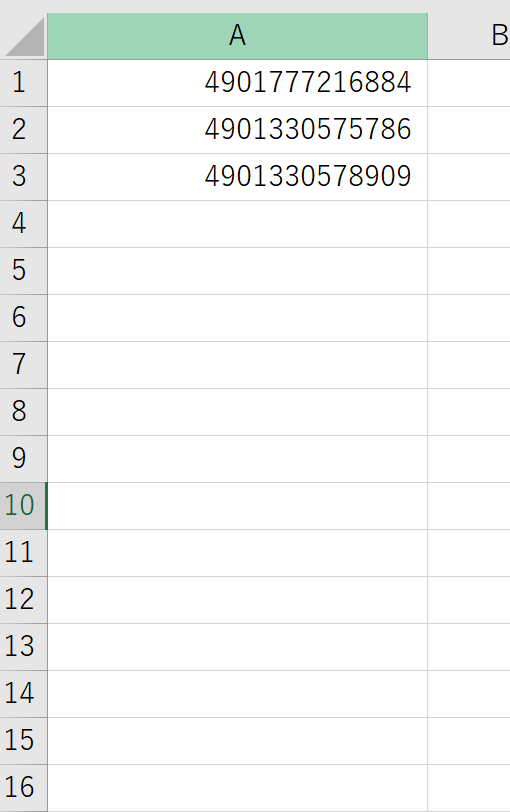
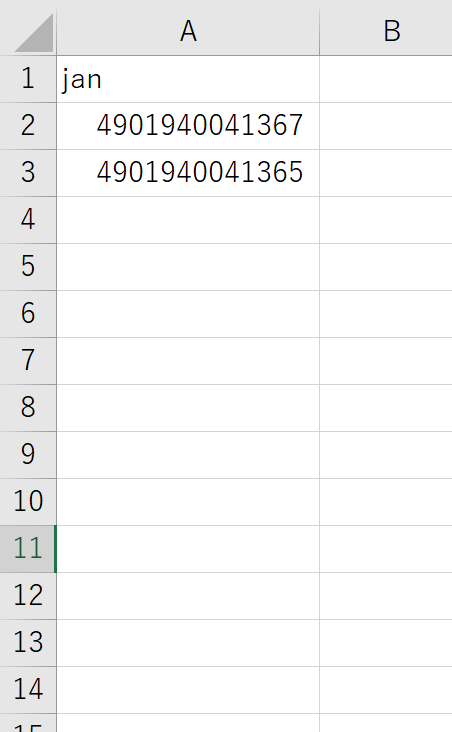
first

diff --git a/jan2asin.py b/jan2asin.py
@@ -19,7 +19,7 @@ col1,col2 = st.columns(2)
 with col1:
     st.subheader("手順")
     image = Image.open('./example.png')
-    st.write("CSVはヘッダーを付けず、下記のように縦に入力したファイルをアップロードしてください")
+    st.write("CSVは[jan]とヘッダーを付けて、下記のように縦に入力したファイルをアップロードしてください")
     st.image(image, caption='CSVの入力例',width=300)
 
 file = st.sidebar.file_uploader("CSVファイルを入力してください",type=["csv"])
